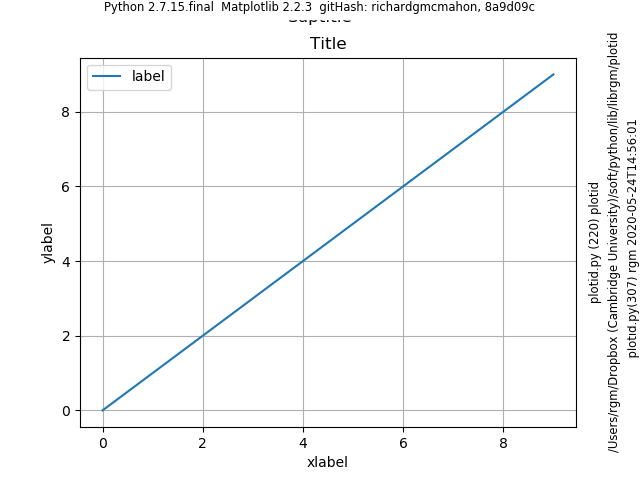
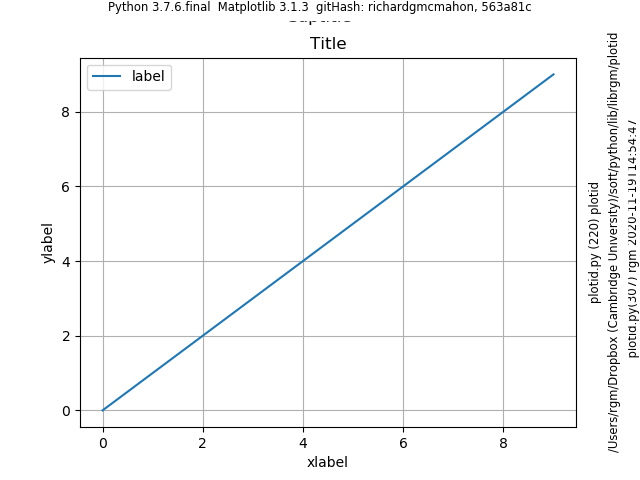
modified:   ../plot_radec.py 	modified:   ../plotid/plotid.py 	modified:   ../plotid/plotid_demo_fig1.png 	modified:   ../plotid/plotid_demo_fig2.png 	modified:   ../plotid/plotid_demo_fig3.png 	modified:   check_matching.py 	modified:   xmatch_selfcheck.py

Changed region(s): [[0.1562, 0.0, 0.8438, 0.0312], [0.9688, 0.375, 1.0, 0.4375], [0.9688, 0.25, 1.0, 0.3125]]

diff --git a/plotid/plotid.py b/plotid/plotid.py
@@ -90,12 +90,20 @@ def plotid(timestamp=True, user=True, hostname=False,
                                                "--short", "HEAD"]).strip()
         except subprocess.CalledProcessError as e:
             print("You need to be in a git repository in order to put " +
-                  "provenance information on the plots. Please clone the " +
+                  "provenance information on the plots." +
+                  "Please create a git repo or clone the " +
                   "repository instead of downloading the source files " +
                   "directly, and ensure that your local git repo hasn't " +
                   "been corrupted")
 
-        gitHash = gitHash.decode("utf-8")
+        try:
+            gitHash = gitHash.decode("utf-8")
+        except:
+            print("You have not set the git user.name property, which " +
+                  "is needed to add provenance information on the plots. " +
+                  "You can set this property globally using the command " +
+                  "git config --global user.name '<my name>'")
+
         try:
             producer = subprocess.check_output(["git", "config",
                                                 "user.name"]).strip()
@@ -302,7 +310,6 @@ if __name__ == '__main__':
     plt.xlabel('xlabel')
     plt.ylabel('ylabel')
     plt.title('Title')
-    plt.suptitle('Suptitle')
     plt.legend()
     plotid(debug=True, progname=True)
 

diff --git a/plot_radec.py b/plot_radec.py
@@ -14,7 +14,7 @@ from astropy import units as units
 
 # import private functions
 # sys.path.append("/home/rgm/soft/python/lib/")
-from plotid import plotid
+from librgm.plotid import plotid
 def plot_radec(table=None,
                colnames_radec=('RAJ2000', 'DEJ2000'),
                xcolname='RAJ2000',
@@ -164,7 +164,7 @@ def plot_radec(table=None,
         plt.xlabel('Ecliptic Longitude [degree]')
         plt.ylabel('Ecliptic Latitute [degree]')
 
-    plotid()
+    plotid.plotid()
 
     if savefig:
         if plotfile_prefix is None:

diff --git a/xmatch/xmatch_selfcheck.py b/xmatch/xmatch_selfcheck.py
@@ -166,7 +166,7 @@ def xmatch_selfcheck(data=None,
 
     # make room for the plotid on right edge
     fig.subplots_adjust(right=0.95)
-    plotid()
+    # plotid()
 
     if plotfile is None:
         plotfile = 'xmatch_selfcheck.png'

diff --git a/xmatch/check_matching.py b/xmatch/check_matching.py
@@ -29,7 +29,7 @@ except ImportError:
 # 3rd party libraries
 import numpy as np
 
-import fitsio
+#import fitsio
 
 from astropy.coordinates import (search_around_sky, SkyCoord,
                                  match_coordinates_sky)
